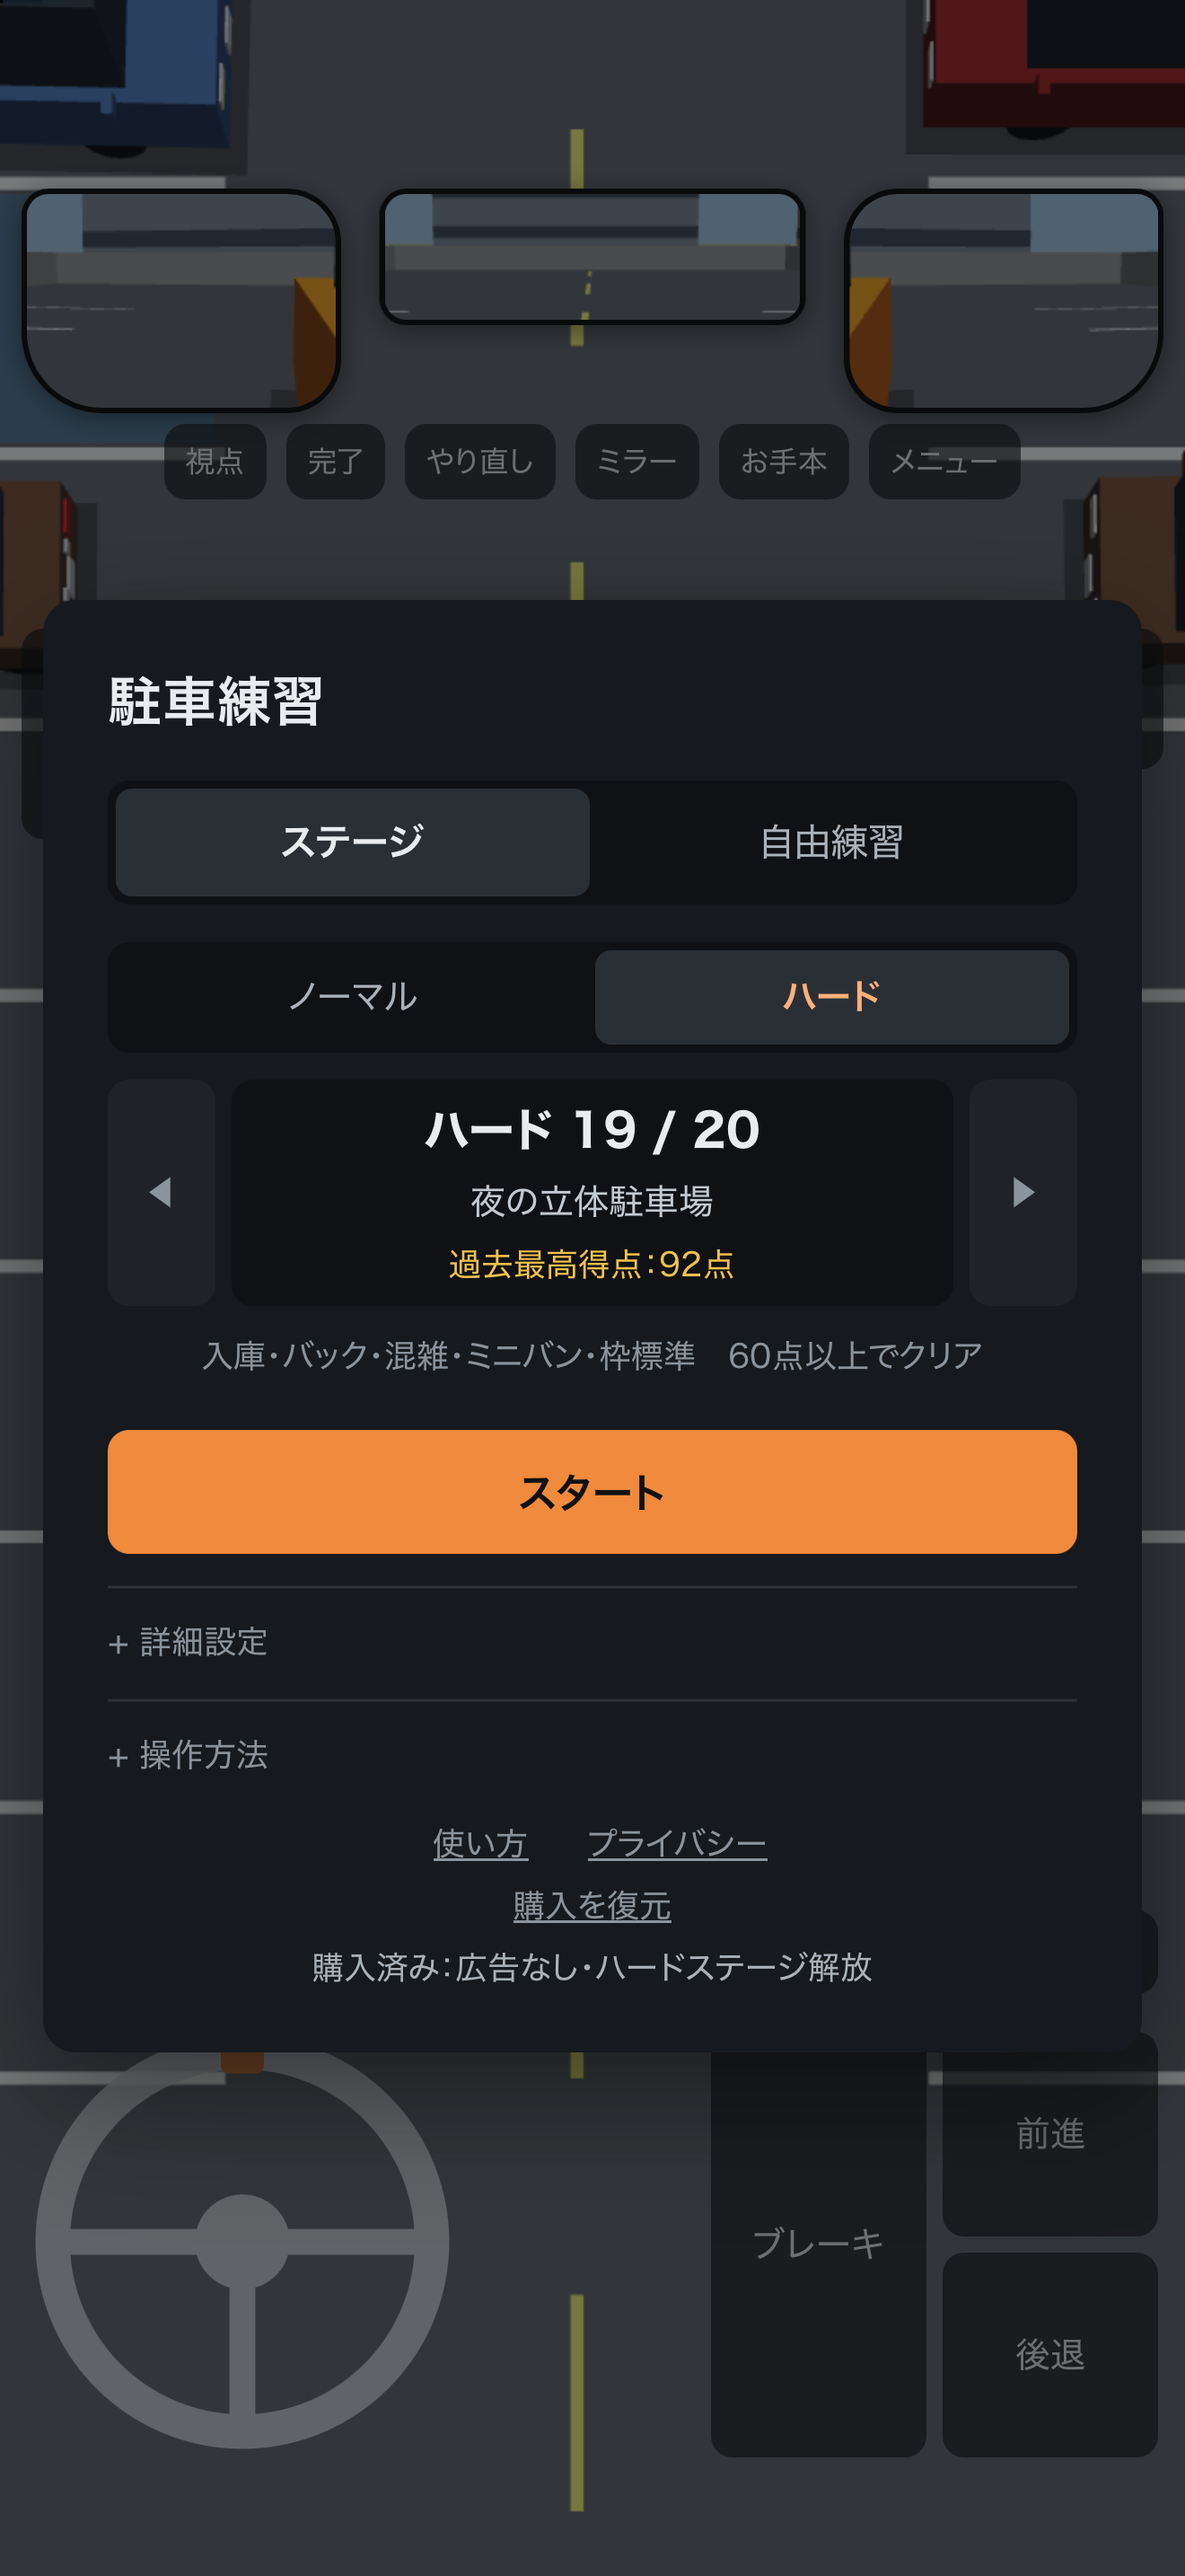
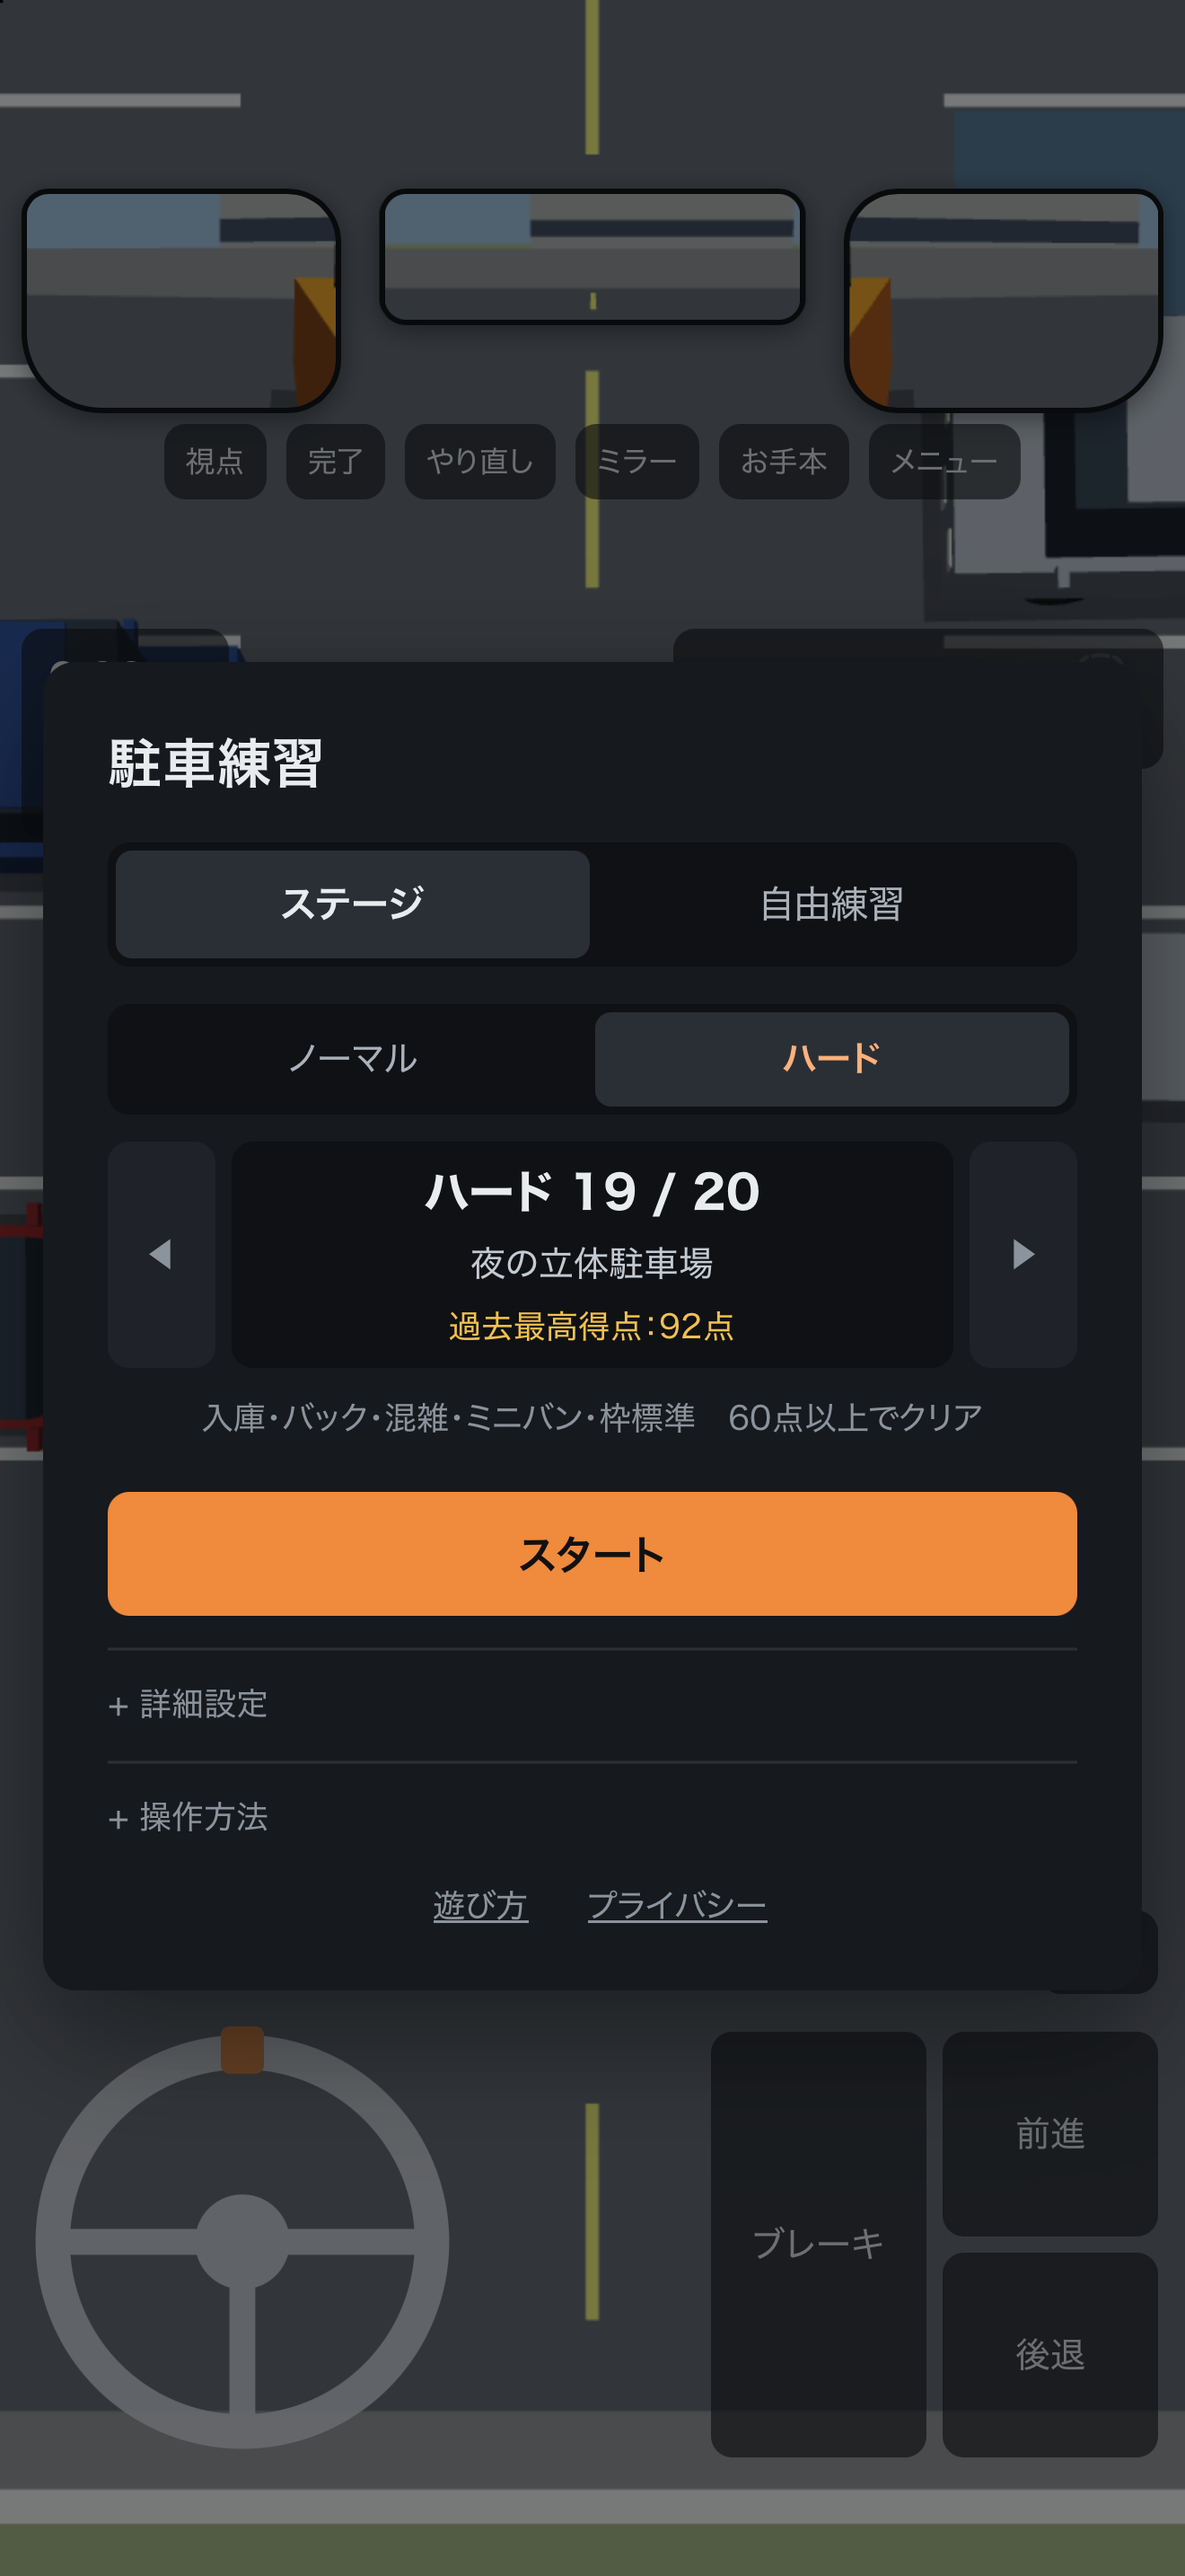
Duo screenshots, refreshed menu shots, replay label clear of cutouts
- The replay label on the result screen now respects the left and top
  safe areas, so it no longer sits under the iPhone Duo front camera
  in landscape
- Screenshot mode runs its setup script a fixed time after the page is
  ready instead of on the load event, which was unreliable
- Add iPhone Duo outer-display screenshots and retake the iPhone and
  iPad menu shots (now 遊び方, no purchase footer)

diff --git a/index.html b/index.html
@@ -71,7 +71,7 @@ body.parallel #stats .curbStat{display:inline}
 #toast{position:fixed;left:50%;top:44%;transform:translate(-50%,-50%);z-index:9;font-size:15px;font-weight:600;
   background:rgba(14,16,20,.8);color:var(--bad);padding:8px 16px;border-radius:6px;opacity:0;transition:opacity .4s;pointer-events:none}
 #toast.show{opacity:1;transition:none}
-#replayLabel{display:none;position:fixed;left:14px;top:12px;z-index:21;background:var(--hud);border-radius:6px;padding:5px 10px;
+#replayLabel{display:none;position:fixed;left:calc(14px + env(safe-area-inset-left));top:calc(12px + var(--sat));z-index:21;background:var(--hud);border-radius:6px;padding:5px 10px;
   font-size:12px;color:var(--muted)}
 body.resultView #replayLabel{display:flex;gap:10px}
 #replayLabel i{font-style:normal;color:#48d6ff}

diff --git a/ios/ParkingGame/GameWebView.swift b/ios/ParkingGame/GameWebView.swift
@@ -28,7 +28,7 @@ struct GameWebView: UIViewRepresentable {
         // スクリーンショット用：起動引数 -js "<コード>" を、ページを読み込んだあとに実行（場面を用意する）
         if let js = UserDefaults.standard.string(forKey: "js") {
             config.userContentController.addUserScript(WKUserScript(
-                source: "window.addEventListener('load', () => setTimeout(() => { \(js) }, 1500));",
+                source: "setTimeout(() => { \(js) }, 2500);",
                 injectionTime: .atDocumentEnd, forMainFrameOnly: true))
         }
         #endif
